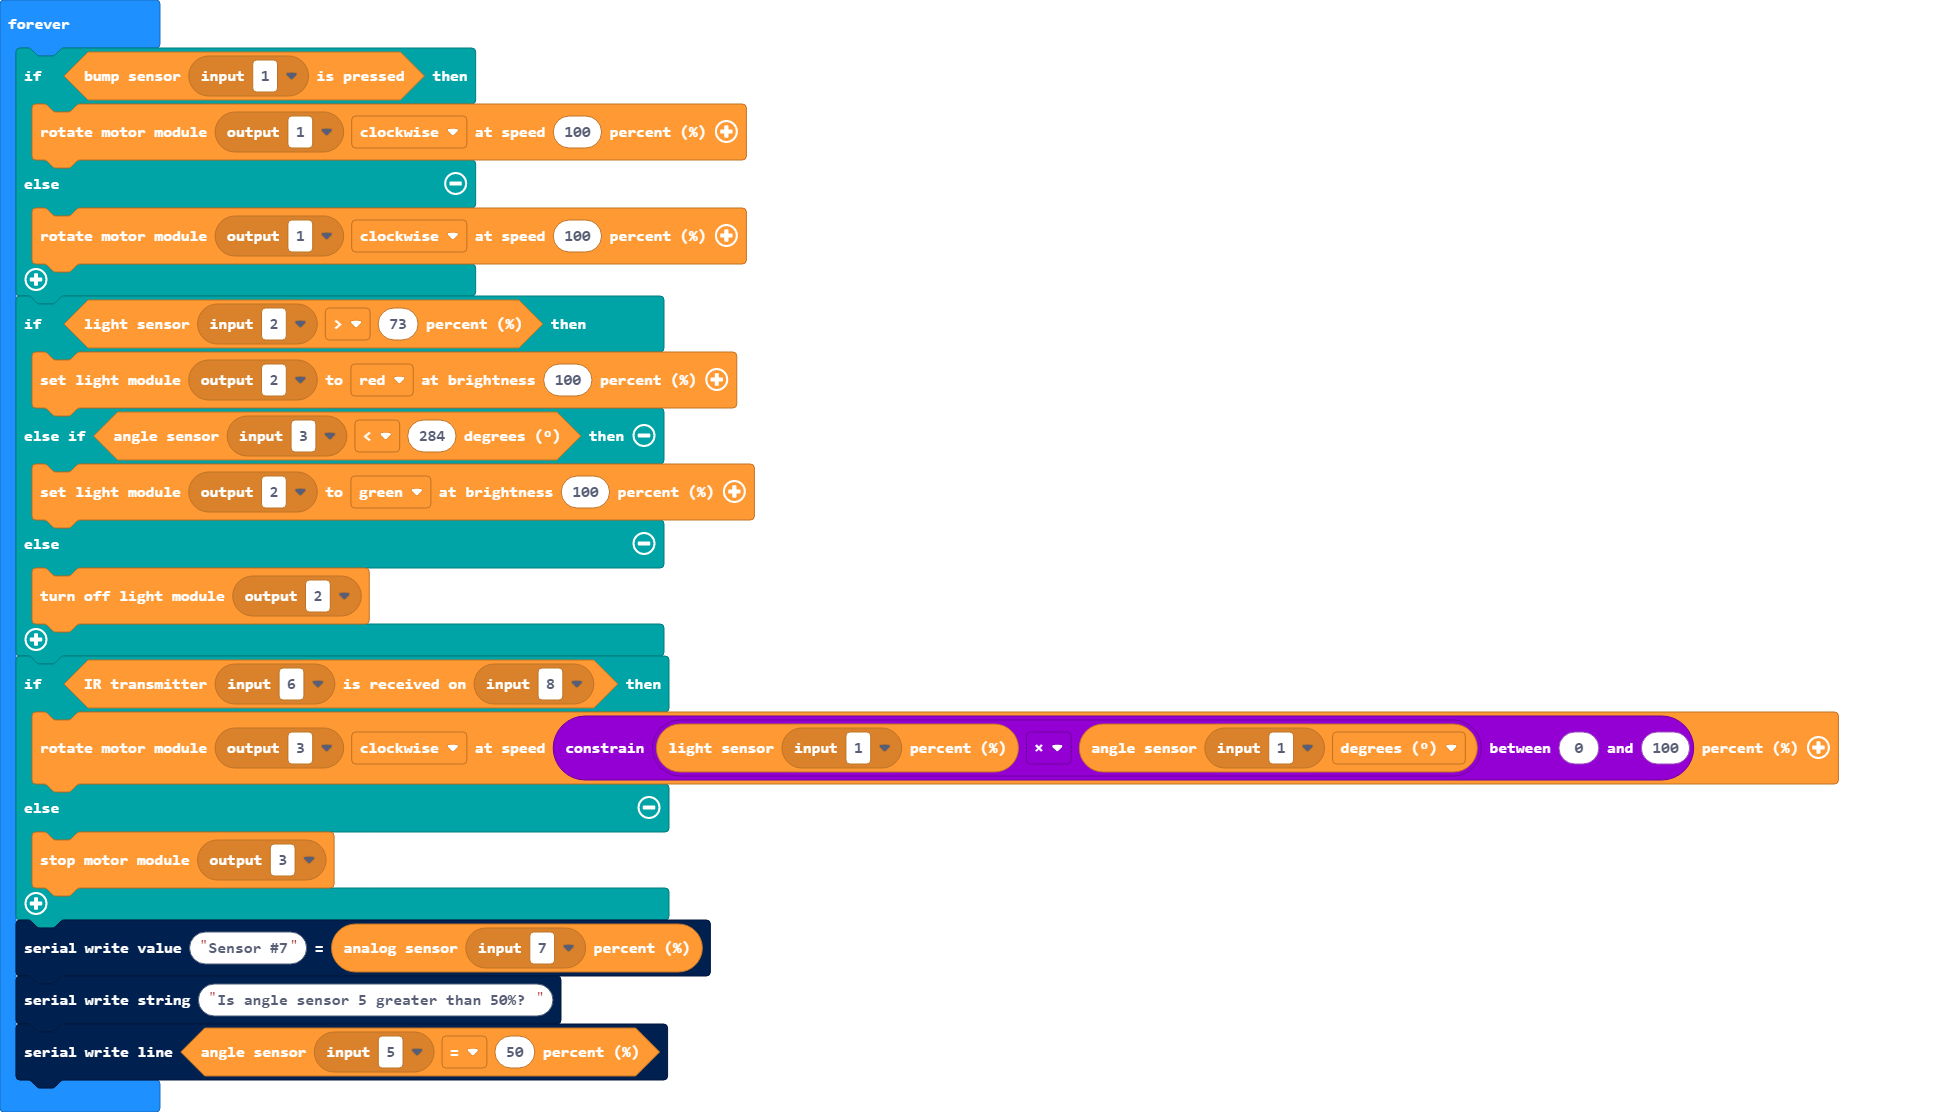
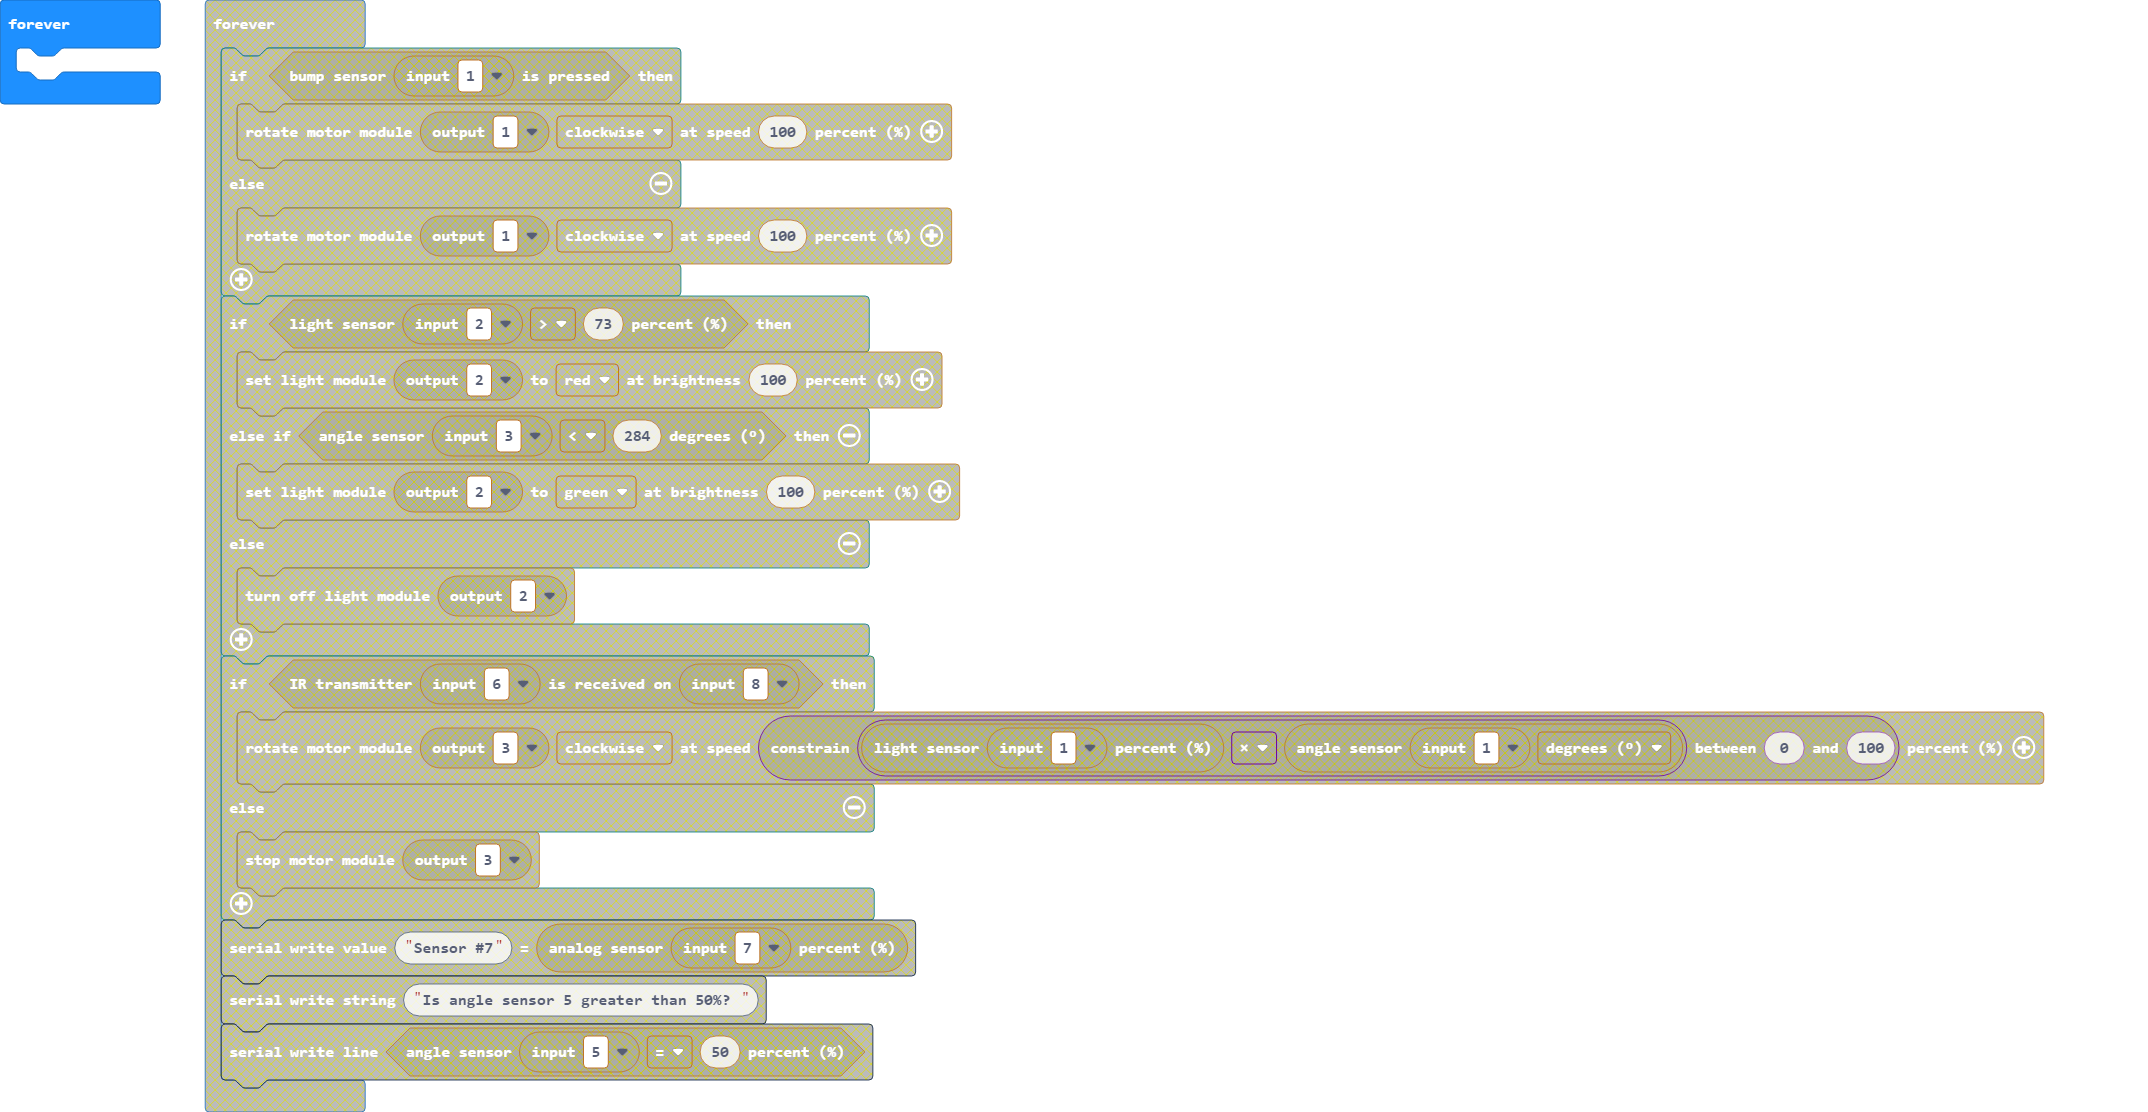
Updates to blocks

diff --git a/sparkbit.ts b/sparkbit.ts
@@ -92,9 +92,9 @@ enum DegreePercent {
 //% groups="['Bump Sensor (blue)','Angle Sensor (green)','Light Sensor (yellow)','IR Tx/Rx (black/white or gray/white)','Generic Analog Sensor']"
 namespace sparkbitI {
 
-    //% block
+    //% block="analog read sensor $channel"
     //% channel.shadow="inputNumber"
-    //% blockHidden=true
+    //% advanced = true
     export function readAnalogSensor(channel: number): number {
         if (channel < 1) channel = 1;
         if (channel > 8) channel = 8;
@@ -138,14 +138,14 @@ namespace sparkbitI {
 
     /**
      * Returns value of analog sensor in percentage
-     * @param channel Sensor Input (1-8)
+     * @param channel Sensor Input (1-8) eg: 1
      */
     //% block="analog sensor $channel percent (\\%)"
     //% group="Generic Analog Sensor"
     //% weight=1
     //% channel.shadow="inputNumber"
     //% operator.shadow="degreePercentEnum"
-
+    //% advanced = true
     export function readAnalogSensorPercent(channel: number): number {
         let value = readAnalogSensor(channel);
         value = Math.map(value, 0, 1023, 0, 100);
@@ -158,7 +158,7 @@ namespace sparkbitI {
 
     /**
      * Returns true if pressed, false if not pressed
-     * @param channel Sensor Input (1-8)
+     * @param channel Sensor Input (1-8) eg: 1
      */
     //% block="bump sensor $channel is pressed"
     //% group="Bump Sensor (blue)"
@@ -171,7 +171,7 @@ namespace sparkbitI {
 
     /**
      * Returns value of light sensor
-     * @param channel Sensor Input (1-8)
+     * @param channel Sensor Input (1-8) eg: 1
      */
     //% block="light sensor $channel percent (\\%)"
     //% group="Light Sensor (yellow)"
@@ -191,7 +191,7 @@ namespace sparkbitI {
 
     /**
       * Compares Light Percent to Value and returns Boolean
-      * @param channel Sensor Input (1-8)
+      * @param channel Sensor Input (1-8) eg: 1
       */
     //% block="light sensor $channel $operator $value percent (\\%)"
     //% group="Light Sensor (yellow)"
@@ -207,7 +207,7 @@ namespace sparkbitI {
 
     /**
      * Returns value of angle sensor
-     * @param channel Sensor Input (1-8)
+     * @param channel Sensor Input (1-8) eg: 1
      */
     //% block="angle sensor $channel $operator"
     //% group="Angle Sensor (green)"
@@ -227,7 +227,7 @@ namespace sparkbitI {
 
     /**
       * Compares Angle Degree to Value and returns Boolean
-      * @param channel Sensor Input (1-8)
+      * @param channel Sensor Input (1-8) eg: 1
       */
     //% block="angle sensor $channel $operator $value degrees (°)"
     //% group="Angle Sensor (green)"
@@ -242,7 +242,7 @@ namespace sparkbitI {
 
     /**
       * Compares Angle Percent to Value and returns Boolean
-      * @param channel Sensor Input (1-8)
+      * @param channel Sensor Input (1-8) eg: 1
       */
     //% block="angle sensor $channel $operator $value percent (\\%)"
     //% group="Angle Sensor (green)"
@@ -275,8 +275,8 @@ namespace sparkbitI {
 
     /**
      * Pulses IR Transmitter and checks if signal is reflected. Returns Boolean.
-     * @param TXpin Sensor Input (1-8)
-     * @param RXpin Sensor Input (1-8)
+     * @param TXpin Sensor Input (1-8) eg: 1
+     * @param RXpin Sensor Input (1-8) eg: 2
      */
     //% block="IR transmitter $TXpin is received on $RXpin"
     //% group="IR Tx/Rx (black/white or gray/white)"
@@ -289,8 +289,8 @@ namespace sparkbitI {
 
     // /**
     //  * Pulses IR Transmitter and checks if signal is reflected. Returns Boolean.
-    //  * @param TXpin Sensor Input (1-8)
-    //  * @param RXpin Sensor Input (1-8)
+    //  * @param TXpin Sensor Input (1-8) eg: 1
+    //  * @param RXpin Sensor Input (1-8) eg: 2
     //  */
     // //% block="IR transmitter $TXpin is received on $RXpin"
     // //% group="IR Low Power Tx/Rx (gray/white)"
@@ -303,7 +303,7 @@ namespace sparkbitI {
 
     /**
      * Input Port #
-    * @param input [1-8] eg: 1
+    * @param input [1-8]
     */
     //% blockId=inputNumber block="input $input"
     //% blockHidden=true
@@ -428,75 +428,9 @@ namespace sparkbitI {
 //% groups="['Motor Module (red)','Light Module (orange)']"
 namespace sparkbitO {
 
-    //% block="set light module $output to $color at brightness $brightness percent (\\%) || for $duration ms"
-    //% group="Light Module (orange)"
-    //% weight=90
-    //% expandableArgumentMode="toggle"
-    //% inlineInputMode=inline
-    //% output.shadow="outputNumber"
-    //% color.shadow="colorEnum" color.defl=Colors.Green
-    //% brightness.min=0 brightness.max=100 brightness.defl=100
-    //% duration.shadow=timePicker
-    export function setLightModule(output: number, brightness: number, color: Colors, duration?: number): void {
-        brightness = Math.map(brightness, 0, 100, 0, 1023);
-
-        if (duration == undefined) {
-            if (color == Colors.Red) {
-                motorWrite(output, brightness, true);
-            }
-            else if (color == Colors.Green) {
-                motorWrite(output, brightness, false);
-            }
-        }
-        else {
-            switch (output) {
-                case 1:
-                    if (color == Colors.Red) outputsState[0] = true;
-                    else if (color == Colors.Green) outputsState[0] = false;
-                    outputsValue[0] = brightness;
-                    outputsDuration[0] = duration;
-                    control.raiseEvent(EVENTID_OUTPUT_1_DELAY_OFF, 10);
-                    break;
-                case 2:
-                    if (color == Colors.Red) outputsState[1] = true;
-                    else if (color == Colors.Green) outputsState[1] = false;
-                    outputsValue[1] = brightness;
-                    outputsDuration[1] = duration;
-                    control.raiseEvent(EVENTID_OUTPUT_2_DELAY_OFF, 10);
-                    break;
-                case 3:
-                    if (color == Colors.Red) outputsState[2] = true;
-                    else if (color == Colors.Green) outputsState[2] = false;
-                    outputsValue[2] = brightness;
-                    outputsDuration[2] = duration;
-                    control.raiseEvent(EVENTID_OUTPUT_3_DELAY_OFF, 10);
-                    break;
-                case 4:
-                    if (color == Colors.Red) outputsState[3] = true;
-                    else if (color == Colors.Green) outputsState[3] = false;
-                    outputsValue[3] = brightness;
-                    outputsDuration[3] = duration;
-                    control.raiseEvent(EVENTID_OUTPUT_4_DELAY_OFF, 10);
-                    break;
-            }
-        }
-    }
-
     /**
      * TODO: describe your function here
-     * @param output Output (1-4)
-     */
-    //% block="turn off light module $output"
-    //% group="Light Module (orange)"
-    //% weight=60
-    //% output.shadow="outputNumber"
-    export function stopLight(output: number): void {
-        motorWrite(output, 0, false);
-    }
-
-    /**
-     * TODO: describe your function here
-     * @param motor Output (1-4)
+     * @param motor Output (1-4) eg: 1
      */
     //% block="rotate motor module $motor $direction at speed $speed percent (\\%) || for $duration ms"
     //% group="Motor Module (red)"
@@ -554,11 +488,11 @@ namespace sparkbitO {
 
     /**
      * TODO: describe your function here
-     * @param motor Output (1-4)
+     * @param motor Output (1-4) eg: 1
      */
     //% block="stop motor module $motor"
     //% group="Motor Module (red)"
-    //% weight=60
+    //% weight=80
     //% motor.shadow="outputNumber"
     export function stopMotor(motor: number): void {
         motorWrite(motor, 0, false);
@@ -609,21 +543,141 @@ namespace sparkbitO {
         }
     }
 
-    //% block="run motor# $motor at velocity $velocity"
+    /**
+     * TODO: describe your function here
+     * @param motor Output (1-4) eg: 1
+     */
+    //% block="rotate motor module $motor at velocity $velocity percent (\\%) || for $duration ms"
     //% group="Motor Module (red)"
-    //% blockHidden=true
     //% weight=70
+    //% expandableArgumentMode="toggle"
+    //% inlineInputMode=inline
     //% motor.shadow="outputNumber"
-    //% velocity.min=-1023 velocity.max=1023
-    export function motorWriteVel(motor: number, velocity: number): void {
+    //% velocity.min=-100 velocity.max=100
+    //% duration.shadow=timePicker
+    //% advanced = true
+    export function motorWriteVel(motor: number, velocity: number, duration?: number): void {
+        if (velocity > 0){
+            velocity = Math.map(velocity, 0, 100, 0, 1023);
+        }
+        else if (velocity < 0) {
+            velocity = -Math.map(Math.abs(velocity), 0, 100, 0, 1023);
+        }
+
         if (velocity < -1023) velocity = -1023;
         if (velocity > 1023) velocity = 1023;
-        if (velocity > 0) {
-            motorWrite(motor, velocity, COUNTER_CLOCKWISE);
+
+        if (duration == undefined) {
+            if (velocity > 0) {
+                motorWrite(motor, velocity, COUNTER_CLOCKWISE);
+            }
+            else {
+                motorWrite(motor, -velocity, CLOCKWISE);
+            }
         }
         else {
-            motorWrite(motor, -velocity, CLOCKWISE);
+            switch (motor) {
+                case 1:
+                    if (velocity > 0) outputsState[0] = false;
+                    else if (velocity < 0) outputsState[0] = true;
+                    outputsValue[0] = Math.abs(velocity);
+                    outputsDuration[0] = duration;
+                    control.raiseEvent(EVENTID_OUTPUT_1_DELAY_OFF, 10);
+                    break;
+                case 2:
+                    if (velocity > 0) outputsState[1] = false;
+                    else if (velocity < 0) outputsState[1] = true;
+                    outputsValue[1] = Math.abs(velocity);
+                    outputsDuration[1] = duration;
+                    control.raiseEvent(EVENTID_OUTPUT_2_DELAY_OFF, 10);
+                    break;
+                case 3:
+                    if (velocity > 0) outputsState[2] = false;
+                    else if (velocity < 0) outputsState[2] = true;
+                    outputsValue[2] = Math.abs(velocity);
+                    outputsDuration[2] = duration;
+                    control.raiseEvent(EVENTID_OUTPUT_3_DELAY_OFF, 10);
+                    break;
+                case 4:
+                    if (velocity > 0) outputsState[3] = false;
+                    else if (velocity < 0) outputsState[3] = true;
+                    outputsValue[3] = Math.abs(velocity);
+                    outputsDuration[3] = duration;
+                    control.raiseEvent(EVENTID_OUTPUT_4_DELAY_OFF, 10);
+                    break;
+            }
         }
+
+    }
+
+    /**
+     * TODO: describe your function here
+     * @param motor Output (1-4) eg: 1
+     */
+    //% block="set light module $output to $color at brightness $brightness percent (\\%) || for $duration ms"
+    //% group="Light Module (orange)"
+    //% weight=20
+    //% expandableArgumentMode="toggle"
+    //% inlineInputMode=inline
+    //% output.shadow="outputNumber"
+    //% color.shadow="colorEnum" color.defl=Colors.Green
+    //% brightness.min=0 brightness.max=100 brightness.defl=100
+    //% duration.shadow=timePicker
+    export function setLightModule(output: number, brightness: number, color: Colors, duration?: number): void {
+        brightness = Math.map(brightness, 0, 100, 0, 1023);
+
+        if (duration == undefined) {
+            if (color == Colors.Red) {
+                motorWrite(output, brightness, true);
+            }
+            else if (color == Colors.Green) {
+                motorWrite(output, brightness, false);
+            }
+        }
+        else {
+            switch (output) {
+                case 1:
+                    if (color == Colors.Red) outputsState[0] = true;
+                    else if (color == Colors.Green) outputsState[0] = false;
+                    outputsValue[0] = brightness;
+                    outputsDuration[0] = duration;
+                    control.raiseEvent(EVENTID_OUTPUT_1_DELAY_OFF, 10);
+                    break;
+                case 2:
+                    if (color == Colors.Red) outputsState[1] = true;
+                    else if (color == Colors.Green) outputsState[1] = false;
+                    outputsValue[1] = brightness;
+                    outputsDuration[1] = duration;
+                    control.raiseEvent(EVENTID_OUTPUT_2_DELAY_OFF, 10);
+                    break;
+                case 3:
+                    if (color == Colors.Red) outputsState[2] = true;
+                    else if (color == Colors.Green) outputsState[2] = false;
+                    outputsValue[2] = brightness;
+                    outputsDuration[2] = duration;
+                    control.raiseEvent(EVENTID_OUTPUT_3_DELAY_OFF, 10);
+                    break;
+                case 4:
+                    if (color == Colors.Red) outputsState[3] = true;
+                    else if (color == Colors.Green) outputsState[3] = false;
+                    outputsValue[3] = brightness;
+                    outputsDuration[3] = duration;
+                    control.raiseEvent(EVENTID_OUTPUT_4_DELAY_OFF, 10);
+                    break;
+            }
+        }
+    }
+
+    /**
+     * TODO: describe your function here
+     * @param output Output (1-4) eg: 1
+     */
+    //% block="turn off light module $output"
+    //% group="Light Module (orange)"
+    //% weight=10
+    //% output.shadow="outputNumber"
+    export function stopLight(output: number): void {
+        motorWrite(output, 0, false);
     }
 
 
@@ -657,7 +711,7 @@ namespace sparkbitO {
 
     /**
      * Output Port #
-    * @param output eg: 1
+    * @param output
     */
     //% blockId=outputNumber block="output $output"
     //% blockHidden=true

diff --git a/main.ts b/main.ts
@@ -1,22 +1,3 @@
 basic.forever(function () {
-    if (sparkbitI.bumpSensor(sparkbitI.__inputNumber(1))) {
-        sparkbitO.rotateMotorDuration(sparkbitO.__outputNumber(1), 100, Directions.Clockwise)
-    } else {
-        sparkbitO.rotateMotorDuration(sparkbitO.__outputNumber(1), 100, Directions.Clockwise)
-    }
-    if (sparkbitI.testLightSensorPercent(sparkbitI.__inputNumber(2), LogicCompare.LogicCompareGT, 73)) {
-        sparkbitO.setLightModule(sparkbitO.__outputNumber(2), 100, Colors.Red)
-    } else if (sparkbitI.testAngleSensorDeg(sparkbitI.__inputNumber(3), LogicCompare.LogicCompareLT, 284)) {
-        sparkbitO.setLightModule(sparkbitO.__outputNumber(2), 100, Colors.Green)
-    } else {
-        sparkbitO.stopLight(sparkbitO.__outputNumber(2))
-    }
-    if (sparkbitI.proximity(sparkbitI.__inputNumber(6), sparkbitI.__inputNumber(8))) {
-        sparkbitO.rotateMotorDuration(sparkbitO.__outputNumber(3), Math.constrain(sparkbitI.readLightSensor(sparkbitI.__inputNumber(1)) * sparkbitI.readAngleSensorDeg(DegreePercent.Degree, sparkbitI.__inputNumber(1)), 0, 100), Directions.Clockwise)
-    } else {
-        sparkbitO.stopMotor(sparkbitO.__outputNumber(3))
-    }
-    serial.writeValue("Sensor #7", sparkbitI.readAnalogSensorPercent(sparkbitI.__inputNumber(7)))
-    serial.writeString("Is angle sensor 5 greater than 50%? ")
-    serial.writeLine("" + (sparkbitI.testAngleSensorPercent(sparkbitI.__inputNumber(5), LogicCompare.LogicCompareEQ, 50)))
+	
 })
